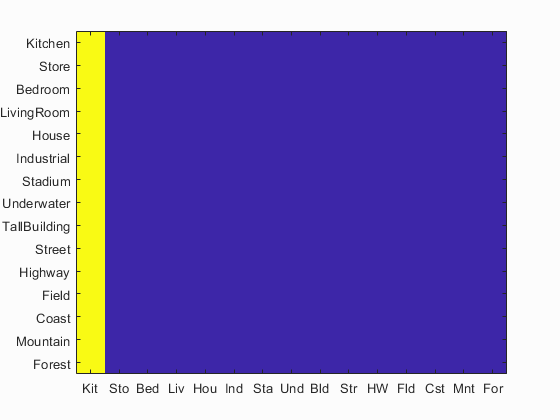
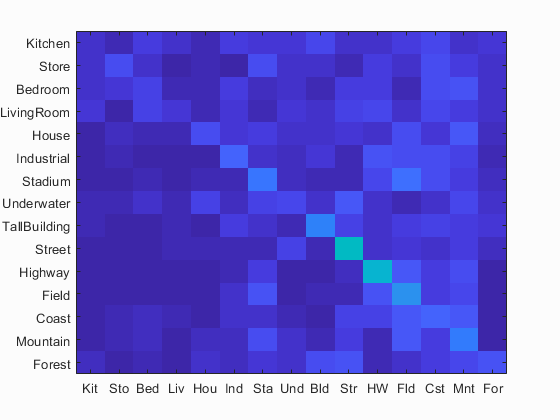
KNN WIP 2

diff --git a/Code/results_webpage/index.html b/Code/results_webpage/index.html
@@ -36,7 +36,7 @@ h1 {
 <img src="confusion_matrix.png">
 
 <br>
-Accuracy (mean of diagonal of confusion matrix) is 0.067
+Accuracy (mean of diagonal of confusion matrix) is 0.211
 <p>
 
 <table border=0 cellpadding=4 cellspacing=1>
@@ -50,183 +50,183 @@ Accuracy (mean of diagonal of confusion matrix) is 0.067
 </tr>
 <tr>
 <td>Kitchen</td>
-<td>1.000</td>
-<td bgcolor=LightBlue><img src="thumbnails/Kitchen_sun_abubjfcvxrqjnbav.jpg" width=75 height=75></td>
-<td bgcolor=LightBlue><img src="thumbnails/Kitchen_sun_acnxqvumxuhphsox.jpg" width=101 height=75></td>
-<td bgcolor=LightGreen><img src="thumbnails/Kitchen_sun_aaatkmnywzopvrpq.jpg" width=100 height=75></td>
-<td bgcolor=LightGreen><img src="thumbnails/Kitchen_sun_aaytdlcupysxijma.jpg" width=114 height=75></td>
-<td bgcolor=LightCoral><img src="thumbnails/Highway_sun_acavuimzdujsxhgo.jpg" width=101 height=75><br><small>Highway</small></td>
-<td bgcolor=LightCoral><img src="thumbnails/Highway_sun_adwjtmkipixhmlxq.jpg" width=101 height=75><br><small>Highway</small></td>
-<td bgcolor=#FFBB55></td>
-<td bgcolor=#FFBB55></td>
+<td>0.060</td>
+<td bgcolor=LightBlue><img src="thumbnails/Kitchen_sun_abxcbboqmegyjmav.jpg" width=75 height=75></td>
+<td bgcolor=LightBlue><img src="thumbnails/Kitchen_sun_aczownhxhsefytxm.jpg" width=101 height=75></td>
+<td bgcolor=LightGreen><img src="thumbnails/Kitchen_sun_aaustmdcrmpnsotk.jpg" width=101 height=75></td>
+<td bgcolor=LightGreen><img src="thumbnails/Kitchen_sun_abixkuxvvdkbvaio.jpg" width=75 height=75></td>
+<td bgcolor=LightCoral><img src="thumbnails/Store_sun_aqfdlqzwlyuyvior.jpg" width=111 height=75><br><small>Store</small></td>
+<td bgcolor=LightCoral><img src="thumbnails/Street_sun_aqkxuykoiwjqfcof.jpg" width=75 height=75><br><small>Street</small></td>
+<td bgcolor=#FFBB55><img src="thumbnails/Kitchen_sun_aadbddgrdsjugojn.jpg" width=112 height=75><br><small>Field</small></td>
+<td bgcolor=#FFBB55><img src="thumbnails/Kitchen_sun_abksexnhiqaynrtd.jpg" width=134 height=75><br><small>Highway</small></td>
 </tr>
 <tr>
 <td>Store</td>
-<td>0.000</td>
+<td>0.140</td>
+<td bgcolor=LightBlue><img src="thumbnails/Store_sun_abosiuiqphdekaqb.jpg" width=100 height=75></td>
 <td bgcolor=LightBlue><img src="thumbnails/Store_sun_afkjwiparjsetthc.jpg" width=101 height=75></td>
-<td bgcolor=LightBlue><img src="thumbnails/Store_sun_affhfccupvmwdrki.jpg" width=75 height=75></td>
-<td bgcolor=LightGreen></td>
-<td bgcolor=LightGreen></td>
-<td bgcolor=LightCoral></td>
-<td bgcolor=LightCoral></td>
-<td bgcolor=#FFBB55><img src="thumbnails/Store_sun_ajwuqobqdoekvnxe.jpg" width=112 height=75><br><small>Kitchen</small></td>
-<td bgcolor=#FFBB55><img src="thumbnails/Store_sun_aqfdlqzwlyuyvior.jpg" width=111 height=75><br><small>Kitchen</small></td>
+<td bgcolor=LightGreen><img src="thumbnails/Store_sun_apvrntrlsgmseeqq.jpg" width=96 height=75></td>
+<td bgcolor=LightGreen><img src="thumbnails/Store_sun_akadcztiwgphebkp.jpg" width=101 height=75></td>
+<td bgcolor=LightCoral><img src="thumbnails/Bedroom_sun_abllxrmlmfgdbepz.jpg" width=101 height=75><br><small>Bedroom</small></td>
+<td bgcolor=LightCoral><img src="thumbnails/House_sun_arolpfhixulbpres.jpg" width=75 height=75><br><small>House</small></td>
+<td bgcolor=#FFBB55><img src="thumbnails/Store_sun_anlindzcfzpglgxb.jpg" width=75 height=75><br><small>Coast</small></td>
+<td bgcolor=#FFBB55><img src="thumbnails/Store_sun_amoprubauqidnrhk.jpg" width=75 height=75><br><small>Forest</small></td>
 </tr>
 <tr>
 <td>Bedroom</td>
-<td>0.000</td>
-<td bgcolor=LightBlue><img src="thumbnails/Bedroom_sun_aayujdkohscvnnoc.jpg" width=75 height=75></td>
-<td bgcolor=LightBlue><img src="thumbnails/Bedroom_sun_aaytunsiifsmpgal.jpg" width=101 height=75></td>
-<td bgcolor=LightGreen></td>
-<td bgcolor=LightGreen></td>
-<td bgcolor=LightCoral></td>
-<td bgcolor=LightCoral></td>
-<td bgcolor=#FFBB55><img src="thumbnails/Bedroom_sun_ackiteoxogyezdtl.jpg" width=117 height=75><br><small>Kitchen</small></td>
-<td bgcolor=#FFBB55><img src="thumbnails/Bedroom_sun_abmaqfpmgiwpjyxj.jpg" width=100 height=75><br><small>Kitchen</small></td>
+<td>0.100</td>
+<td bgcolor=LightBlue><img src="thumbnails/Bedroom_sun_aajdpjsqhsoyhihy.jpg" width=100 height=75></td>
+<td bgcolor=LightBlue><img src="thumbnails/Bedroom_sun_aaxspwgpppcwlqht.jpg" width=113 height=75></td>
+<td bgcolor=LightGreen><img src="thumbnails/Bedroom_sun_acqgcgvyzdhyavxz.jpg" width=100 height=75></td>
+<td bgcolor=LightGreen><img src="thumbnails/Bedroom_sun_acotcrrbzdivlzvg.jpg" width=101 height=75></td>
+<td bgcolor=LightCoral><img src="thumbnails/Coast_sun_adknowhdoxjlngus.jpg" width=75 height=75><br><small>Coast</small></td>
+<td bgcolor=LightCoral><img src="thumbnails/Kitchen_sun_abntrinbqbsqoowj.jpg" width=101 height=75><br><small>Kitchen</small></td>
+<td bgcolor=#FFBB55><img src="thumbnails/Bedroom_sun_abllxrmlmfgdbepz.jpg" width=101 height=75><br><small>Store</small></td>
+<td bgcolor=#FFBB55><img src="thumbnails/Bedroom_sun_acrblweratfwhjlk.jpg" width=101 height=75><br><small>House</small></td>
 </tr>
 <tr>
 <td>LivingRoom</td>
-<td>0.000</td>
-<td bgcolor=LightBlue><img src="thumbnails/LivingRoom_sun_aagveymsoisqqxlv.jpg" width=75 height=75></td>
-<td bgcolor=LightBlue><img src="thumbnails/LivingRoom_sun_aajloyfvasfrnhbd.jpg" width=75 height=75></td>
-<td bgcolor=LightGreen></td>
-<td bgcolor=LightGreen></td>
-<td bgcolor=LightCoral></td>
-<td bgcolor=LightCoral></td>
-<td bgcolor=#FFBB55><img src="thumbnails/LivingRoom_sun_acqmgfnwzfqgrsii.jpg" width=113 height=75><br><small>Kitchen</small></td>
-<td bgcolor=#FFBB55><img src="thumbnails/LivingRoom_sun_acejfwtqpleymxpj.jpg" width=100 height=75><br><small>Kitchen</small></td>
+<td>0.070</td>
+<td bgcolor=LightBlue><img src="thumbnails/LivingRoom_sun_abdlgducflmlvokk.jpg" width=113 height=75></td>
+<td bgcolor=LightBlue><img src="thumbnails/LivingRoom_sun_aajspcoepticvplv.jpg" width=103 height=75></td>
+<td bgcolor=LightGreen><img src="thumbnails/LivingRoom_sun_adcqtvvdathcyeug.jpg" width=75 height=75></td>
+<td bgcolor=LightGreen><img src="thumbnails/LivingRoom_sun_abwebmkawvehjgcr.jpg" width=75 height=75></td>
+<td bgcolor=LightCoral><img src="thumbnails/Underwater_sun_aayljfaklgkflplo.jpg" width=59 height=75><br><small>Underwater</small></td>
+<td bgcolor=LightCoral><img src="thumbnails/House_sun_balobrqpjrvarzyb.jpg" width=73 height=75><br><small>House</small></td>
+<td bgcolor=#FFBB55><img src="thumbnails/LivingRoom_sun_acrjbaqsglaoxven.jpg" width=110 height=75><br><small>Street</small></td>
+<td bgcolor=#FFBB55><img src="thumbnails/LivingRoom_sun_abugfszubwstxjbk.jpg" width=116 height=75><br><small>Highway</small></td>
 </tr>
 <tr>
 <td>House</td>
-<td>0.000</td>
-<td bgcolor=LightBlue><img src="thumbnails/House_sun_agcqwarvgfltmibn.jpg" width=75 height=75></td>
-<td bgcolor=LightBlue><img src="thumbnails/House_sun_ajqgbrrgkwrppqss.jpg" width=75 height=75></td>
-<td bgcolor=LightGreen></td>
-<td bgcolor=LightGreen></td>
-<td bgcolor=LightCoral></td>
-<td bgcolor=LightCoral></td>
-<td bgcolor=#FFBB55><img src="thumbnails/House_sun_atzxsbbmhagmxuiw.jpg" width=105 height=75><br><small>Kitchen</small></td>
-<td bgcolor=#FFBB55><img src="thumbnails/House_sun_aqgdoxymfuejsnfh.jpg" width=101 height=75><br><small>Kitchen</small></td>
+<td>0.130</td>
+<td bgcolor=LightBlue><img src="thumbnails/House_sun_adrdwxbsbtyxlubj.jpg" width=101 height=75></td>
+<td bgcolor=LightBlue><img src="thumbnails/House_sun_akkktcsquettazia.jpg" width=75 height=75></td>
+<td bgcolor=LightGreen><img src="thumbnails/House_sun_asrvshkmlswptzfa.jpg" width=113 height=75></td>
+<td bgcolor=LightGreen><img src="thumbnails/House_sun_autaxvdodpikcoje.jpg" width=75 height=75></td>
+<td bgcolor=LightCoral><img src="thumbnails/Underwater_sun_afbdggeebvimkvwj.jpg" width=113 height=75><br><small>Underwater</small></td>
+<td bgcolor=LightCoral><img src="thumbnails/Underwater_sun_agataqxpdumhcvkx.jpg" width=75 height=75><br><small>Underwater</small></td>
+<td bgcolor=#FFBB55><img src="thumbnails/House_sun_awddcjqyytgbwhad.jpg" width=91 height=75><br><small>TallBuilding</small></td>
+<td bgcolor=#FFBB55><img src="thumbnails/House_sun_auzptenhhzbfkklk.jpg" width=101 height=75><br><small>Mountain</small></td>
 </tr>
 <tr>
 <td>Industrial</td>
-<td>0.000</td>
-<td bgcolor=LightBlue><img src="thumbnails/Industrial_sun_anmhlgdnehbgfagi.jpg" width=107 height=75></td>
-<td bgcolor=LightBlue><img src="thumbnails/Industrial_sun_azdryefopyyfbhrj.jpg" width=75 height=75></td>
-<td bgcolor=LightGreen></td>
-<td bgcolor=LightGreen></td>
-<td bgcolor=LightCoral></td>
-<td bgcolor=LightCoral></td>
-<td bgcolor=#FFBB55><img src="thumbnails/Industrial_sun_afrdqvcfapernswr.jpg" width=113 height=75><br><small>Kitchen</small></td>
-<td bgcolor=#FFBB55><img src="thumbnails/Industrial_sun_aeecsyqgdlyfytqh.jpg" width=75 height=75><br><small>Kitchen</small></td>
+<td>0.200</td>
+<td bgcolor=LightBlue><img src="thumbnails/Industrial_sun_axgsjhalfdldqztf.jpg" width=75 height=75></td>
+<td bgcolor=LightBlue><img src="thumbnails/Industrial_sun_bmghcyfkgfeboqdw.jpg" width=101 height=75></td>
+<td bgcolor=LightGreen><img src="thumbnails/Industrial_sun_aqownphqjogaatup.jpg" width=75 height=75></td>
+<td bgcolor=LightGreen><img src="thumbnails/Industrial_sun_atftsrjnmaxwjmjz.jpg" width=88 height=75></td>
+<td bgcolor=LightCoral><img src="thumbnails/House_sun_azivptjcqwhfiimu.jpg" width=75 height=75><br><small>House</small></td>
+<td bgcolor=LightCoral><img src="thumbnails/Field_sun_amdrbspmpwkzsjqy.jpg" width=75 height=75><br><small>Field</small></td>
+<td bgcolor=#FFBB55><img src="thumbnails/Industrial_sun_abshbzorxflngbon.jpg" width=75 height=75><br><small>Highway</small></td>
+<td bgcolor=#FFBB55><img src="thumbnails/Industrial_sun_acyzdpwpaqrrkcie.jpg" width=113 height=75><br><small>Highway</small></td>
 </tr>
 <tr>
 <td>Stadium</td>
-<td>0.000</td>
-<td bgcolor=LightBlue><img src="thumbnails/Stadium_sun_bgkywfadvvguhqym.jpg" width=113 height=75></td>
-<td bgcolor=LightBlue><img src="thumbnails/Stadium_sun_bpvmkbyglkraoxhh.jpg" width=101 height=75></td>
-<td bgcolor=LightGreen></td>
-<td bgcolor=LightGreen></td>
-<td bgcolor=LightCoral></td>
-<td bgcolor=LightCoral></td>
-<td bgcolor=#FFBB55><img src="thumbnails/Stadium_sun_agdjpdnyltdqplcw.jpg" width=94 height=75><br><small>Kitchen</small></td>
-<td bgcolor=#FFBB55><img src="thumbnails/Stadium_sun_aqwejzeafuvgelym.jpg" width=101 height=75><br><small>Kitchen</small></td>
+<td>0.240</td>
+<td bgcolor=LightBlue><img src="thumbnails/Stadium_sun_bdaetftiommjxvxo.jpg" width=101 height=75></td>
+<td bgcolor=LightBlue><img src="thumbnails/Stadium_sun_bmxxiyzsejhvbonq.jpg" width=101 height=75></td>
+<td bgcolor=LightGreen><img src="thumbnails/Stadium_sun_aliwekqtpmatjrfk.jpg" width=101 height=75></td>
+<td bgcolor=LightGreen><img src="thumbnails/Stadium_sun_alkrejfunzeugccg.jpg" width=100 height=75></td>
+<td bgcolor=LightCoral><img src="thumbnails/Underwater_sun_aiwfpazggspqlcyx.jpg" width=118 height=75><br><small>Underwater</small></td>
+<td bgcolor=LightCoral><img src="thumbnails/Industrial_sun_apskpqgprjxomcqw.jpg" width=75 height=75><br><small>Industrial</small></td>
+<td bgcolor=#FFBB55><img src="thumbnails/Stadium_sun_aqwejzeafuvgelym.jpg" width=101 height=75><br><small>Bedroom</small></td>
+<td bgcolor=#FFBB55><img src="thumbnails/Stadium_sun_anyxowtuxrqnyiea.jpg" width=109 height=75><br><small>LivingRoom</small></td>
 </tr>
 <tr>
 <td>Underwater</td>
-<td>0.000</td>
-<td bgcolor=LightBlue><img src="thumbnails/Underwater_sun_aswawzdpxawhslfa.jpg" width=109 height=75></td>
-<td bgcolor=LightBlue><img src="thumbnails/Underwater_sun_aqwzbvbnuocbfebw.jpg" width=115 height=75></td>
-<td bgcolor=LightGreen></td>
-<td bgcolor=LightGreen></td>
-<td bgcolor=LightCoral></td>
-<td bgcolor=LightCoral></td>
-<td bgcolor=#FFBB55><img src="thumbnails/Underwater_sun_aklqirfgzykgoikd.jpg" width=100 height=75><br><small>Kitchen</small></td>
-<td bgcolor=#FFBB55><img src="thumbnails/Underwater_sun_aeoukrxgtybudeiw.jpg" width=101 height=75><br><small>Kitchen</small></td>
+<td>0.120</td>
+<td bgcolor=LightBlue><img src="thumbnails/Underwater_sun_avacuzzxrobqkcss.jpg" width=75 height=75></td>
+<td bgcolor=LightBlue><img src="thumbnails/Underwater_sun_arohrhrsyuyfraah.jpg" width=101 height=75></td>
+<td bgcolor=LightGreen><img src="thumbnails/Underwater_sun_addrjgltpljctvkb.jpg" width=101 height=75></td>
+<td bgcolor=LightGreen><img src="thumbnails/Underwater_sun_abxdibkbtlcauloa.jpg" width=100 height=75></td>
+<td bgcolor=LightCoral><img src="thumbnails/Store_sun_agyvqvazefwcehot.jpg" width=53 height=75><br><small>Store</small></td>
+<td bgcolor=LightCoral><img src="thumbnails/Kitchen_sun_aakdxfbroywdvzac.jpg" width=101 height=75><br><small>Kitchen</small></td>
+<td bgcolor=#FFBB55><img src="thumbnails/Underwater_sun_acbsnpvliwldelek.jpg" width=101 height=75><br><small>Forest</small></td>
+<td bgcolor=#FFBB55><img src="thumbnails/Underwater_sun_adpyczkwuljaajku.jpg" width=111 height=75><br><small>House</small></td>
 </tr>
 <tr>
 <td>TallBuilding</td>
-<td>0.000</td>
-<td bgcolor=LightBlue><img src="thumbnails/TallBuilding_sun_alcsbdrxtrtvqwon.jpg" width=75 height=75></td>
-<td bgcolor=LightBlue><img src="thumbnails/TallBuilding_sun_aiuxdrvlcgifjzex.jpg" width=75 height=75></td>
-<td bgcolor=LightGreen></td>
-<td bgcolor=LightGreen></td>
-<td bgcolor=LightCoral></td>
-<td bgcolor=LightCoral></td>
-<td bgcolor=#FFBB55><img src="thumbnails/TallBuilding_sun_aezjyilnftokytxw.jpg" width=75 height=75><br><small>Kitchen</small></td>
-<td bgcolor=#FFBB55><img src="thumbnails/TallBuilding_sun_aincgwwfotaudtno.jpg" width=75 height=75><br><small>Kitchen</small></td>
+<td>0.270</td>
+<td bgcolor=LightBlue><img src="thumbnails/TallBuilding_sun_amutttaaecmtofxe.jpg" width=75 height=75></td>
+<td bgcolor=LightBlue><img src="thumbnails/TallBuilding_sun_aoeicdziurntilob.jpg" width=75 height=75></td>
+<td bgcolor=LightGreen><img src="thumbnails/TallBuilding_sun_adopyucxrwkoquei.jpg" width=75 height=75></td>
+<td bgcolor=LightGreen><img src="thumbnails/TallBuilding_sun_aahubhyvtfelhoyv.jpg" width=75 height=75></td>
+<td bgcolor=LightCoral><img src="thumbnails/Forest_sun_avesoizwcqbojcvm.jpg" width=75 height=75><br><small>Forest</small></td>
+<td bgcolor=LightCoral><img src="thumbnails/Kitchen_sun_aaedkdzalmgthmau.jpg" width=75 height=75><br><small>Kitchen</small></td>
+<td bgcolor=#FFBB55><img src="thumbnails/TallBuilding_sun_afmhwpwfcpfdoygy.jpg" width=57 height=75><br><small>Mountain</small></td>
+<td bgcolor=#FFBB55><img src="thumbnails/TallBuilding_sun_agqelgngebcticrt.jpg" width=75 height=75><br><small>Street</small></td>
 </tr>
 <tr>
 <td>Street</td>
-<td>0.000</td>
-<td bgcolor=LightBlue><img src="thumbnails/Street_sun_adnjjzohjhbohlwq.jpg" width=75 height=75></td>
-<td bgcolor=LightBlue><img src="thumbnails/Street_sun_aczyvojuirnmntds.jpg" width=75 height=75></td>
-<td bgcolor=LightGreen></td>
-<td bgcolor=LightGreen></td>
-<td bgcolor=LightCoral></td>
-<td bgcolor=LightCoral></td>
-<td bgcolor=#FFBB55><img src="thumbnails/Street_sun_axxcgvvfkbncorzw.jpg" width=75 height=75><br><small>Kitchen</small></td>
-<td bgcolor=#FFBB55><img src="thumbnails/Street_sun_arubnkxrpngvgatb.jpg" width=75 height=75><br><small>Kitchen</small></td>
+<td>0.470</td>
+<td bgcolor=LightBlue><img src="thumbnails/Street_sun_aayameemlzdjkinb.jpg" width=75 height=75></td>
+<td bgcolor=LightBlue><img src="thumbnails/Street_sun_acasxyfcxuorvvpp.jpg" width=75 height=75></td>
+<td bgcolor=LightGreen><img src="thumbnails/Street_sun_avurwypfycbgrate.jpg" width=75 height=75></td>
+<td bgcolor=LightGreen><img src="thumbnails/Street_sun_apknsyjxpqngmrda.jpg" width=75 height=75></td>
+<td bgcolor=LightCoral><img src="thumbnails/TallBuilding_sun_aaxabpcjcwtyqakd.jpg" width=75 height=75><br><small>TallBuilding</small></td>
+<td bgcolor=LightCoral><img src="thumbnails/Forest_sun_areqjhlzczhrspvo.jpg" width=75 height=75><br><small>Forest</small></td>
+<td bgcolor=#FFBB55><img src="thumbnails/Street_sun_aqijbglnhctpdxqj.jpg" width=75 height=75><br><small>Mountain</small></td>
+<td bgcolor=#FFBB55><img src="thumbnails/Street_sun_avvrvnoksopijmkz.jpg" width=75 height=75><br><small>Mountain</small></td>
 </tr>
 <tr>
 <td>Highway</td>
-<td>0.000</td>
-<td bgcolor=LightBlue><img src="thumbnails/Highway_sun_akihkricraebyttv.jpg" width=101 height=75></td>
-<td bgcolor=LightBlue><img src="thumbnails/Highway_sun_ahkywweriavdjvio.jpg" width=75 height=75></td>
-<td bgcolor=LightGreen></td>
-<td bgcolor=LightGreen></td>
-<td bgcolor=LightCoral></td>
-<td bgcolor=LightCoral></td>
-<td bgcolor=#FFBB55><img src="thumbnails/Highway_sun_aenpdrmxtsssrktn.jpg" width=111 height=75><br><small>Kitchen</small></td>
-<td bgcolor=#FFBB55><img src="thumbnails/Highway_sun_aenaseheusdipzby.jpg" width=75 height=75><br><small>Kitchen</small></td>
+<td>0.440</td>
+<td bgcolor=LightBlue><img src="thumbnails/Highway_sun_akpfdceuvmthmmgq.jpg" width=75 height=75></td>
+<td bgcolor=LightBlue><img src="thumbnails/Highway_sun_ajioazwnquwdjbfv.jpg" width=75 height=75></td>
+<td bgcolor=LightGreen><img src="thumbnails/Highway_sun_afpppbrzyyxyppxy.jpg" width=75 height=75></td>
+<td bgcolor=LightGreen><img src="thumbnails/Highway_sun_adjcxhknskrovwwv.jpg" width=75 height=75></td>
+<td bgcolor=LightCoral><img src="thumbnails/Bedroom_sun_acaowsylrnrdzonc.jpg" width=113 height=75><br><small>Bedroom</small></td>
+<td bgcolor=LightCoral><img src="thumbnails/Bedroom_sun_accyfgwyjuhntllw.jpg" width=108 height=75><br><small>Bedroom</small></td>
+<td bgcolor=#FFBB55><img src="thumbnails/Highway_sun_advstbacygihnsur.jpg" width=113 height=75><br><small>Mountain</small></td>
+<td bgcolor=#FFBB55><img src="thumbnails/Highway_sun_acgdunmrvdiderku.jpg" width=146 height=75><br><small>Coast</small></td>
 </tr>
 <tr>
 <td>Field</td>
-<td>0.000</td>
-<td bgcolor=LightBlue><img src="thumbnails/Field_sun_abcsghhmaicbyfah.jpg" width=75 height=75></td>
-<td bgcolor=LightBlue><img src="thumbnails/Field_sun_aeesprkjfzvoldqq.jpg" width=75 height=75></td>
-<td bgcolor=LightGreen></td>
-<td bgcolor=LightGreen></td>
-<td bgcolor=LightCoral></td>
-<td bgcolor=LightCoral></td>
-<td bgcolor=#FFBB55><img src="thumbnails/Field_sun_agzsjiqyoyxibzxi.jpg" width=75 height=75><br><small>Kitchen</small></td>
-<td bgcolor=#FFBB55><img src="thumbnails/Field_sun_amdrbspmpwkzsjqy.jpg" width=75 height=75><br><small>Kitchen</small></td>
+<td>0.320</td>
+<td bgcolor=LightBlue><img src="thumbnails/Field_sun_aesahomxjbgsoeae.jpg" width=115 height=75></td>
+<td bgcolor=LightBlue><img src="thumbnails/Field_sun_addtdkycxbqlpfqa.jpg" width=101 height=75></td>
+<td bgcolor=LightGreen><img src="thumbnails/Field_sun_aiqljudoviqlwaes.jpg" width=75 height=75></td>
+<td bgcolor=LightGreen><img src="thumbnails/Field_sun_akabsvsyzpiqntcp.jpg" width=75 height=75></td>
+<td bgcolor=LightCoral><img src="thumbnails/Mountain_sun_aqohatrqqxxdtjsf.jpg" width=75 height=75><br><small>Mountain</small></td>
+<td bgcolor=LightCoral><img src="thumbnails/Mountain_sun_adllnkiukblykrvr.jpg" width=75 height=75><br><small>Mountain</small></td>
+<td bgcolor=#FFBB55><img src="thumbnails/Field_sun_agjwmwyktbyoiumh.jpg" width=57 height=75><br><small>Coast</small></td>
+<td bgcolor=#FFBB55><img src="thumbnails/Field_sun_aiemuqojwgxywzmf.jpg" width=75 height=75><br><small>Highway</small></td>
 </tr>
 <tr>
 <td>Coast</td>
-<td>0.000</td>
-<td bgcolor=LightBlue><img src="thumbnails/Coast_sun_ahqzuclnkfzntdxs.jpg" width=75 height=75></td>
-<td bgcolor=LightBlue><img src="thumbnails/Coast_sun_akdlbyxvhfzqkmec.jpg" width=75 height=75></td>
-<td bgcolor=LightGreen></td>
-<td bgcolor=LightGreen></td>
-<td bgcolor=LightCoral></td>
-<td bgcolor=LightCoral></td>
-<td bgcolor=#FFBB55><img src="thumbnails/Coast_sun_abacczqzmassivlz.jpg" width=75 height=75><br><small>Kitchen</small></td>
-<td bgcolor=#FFBB55><img src="thumbnails/Coast_sun_afayygrnoetwotbj.jpg" width=113 height=75><br><small>Kitchen</small></td>
+<td>0.200</td>
+<td bgcolor=LightBlue><img src="thumbnails/Coast_sun_ahzxmryraexbachm.jpg" width=50 height=75></td>
+<td bgcolor=LightBlue><img src="thumbnails/Coast_sun_aiwgzdpwfzdkwiaw.jpg" width=101 height=75></td>
+<td bgcolor=LightGreen><img src="thumbnails/Coast_sun_aaarffxrewgissla.jpg" width=75 height=75></td>
+<td bgcolor=LightGreen><img src="thumbnails/Coast_sun_aevdotmpzjqmardj.jpg" width=75 height=75></td>
+<td bgcolor=LightCoral><img src="thumbnails/Industrial_sun_abqbyyxvedmxtutv.jpg" width=75 height=75><br><small>Industrial</small></td>
+<td bgcolor=LightCoral><img src="thumbnails/Kitchen_sun_aavvaxqqsofbaqrz.jpg" width=101 height=75><br><small>Kitchen</small></td>
+<td bgcolor=#FFBB55><img src="thumbnails/Coast_sun_abotowxcizrxzzms.jpg" width=75 height=75><br><small>Street</small></td>
+<td bgcolor=#FFBB55><img src="thumbnails/Coast_sun_aaauorhfyjbbgqkx.jpg" width=113 height=75><br><small>Mountain</small></td>
 </tr>
 <tr>
 <td>Mountain</td>
-<td>0.000</td>
-<td bgcolor=LightBlue><img src="thumbnails/Mountain_sun_arzjnkriqwsbxqvg.jpg" width=57 height=75></td>
-<td bgcolor=LightBlue><img src="thumbnails/Mountain_sun_avwmsuhqcprieulh.jpg" width=114 height=75></td>
-<td bgcolor=LightGreen></td>
-<td bgcolor=LightGreen></td>
-<td bgcolor=LightCoral></td>
-<td bgcolor=LightCoral></td>
-<td bgcolor=#FFBB55><img src="thumbnails/Mountain_sun_aadxlwffxgghnrkq.jpg" width=75 height=75><br><small>Kitchen</small></td>
-<td bgcolor=#FFBB55><img src="thumbnails/Mountain_sun_apniscciiblhncuw.jpg" width=75 height=75><br><small>Kitchen</small></td>
+<td>0.260</td>
+<td bgcolor=LightBlue><img src="thumbnails/Mountain_sun_azbkhlxvemsutndd.jpg" width=75 height=75></td>
+<td bgcolor=LightBlue><img src="thumbnails/Mountain_sun_bcfplfqhoscnjczi.jpg" width=101 height=75></td>
+<td bgcolor=LightGreen><img src="thumbnails/Mountain_sun_aoioimqcartsexin.jpg" width=75 height=75></td>
+<td bgcolor=LightGreen><img src="thumbnails/Mountain_sun_anzrxoxejandordg.jpg" width=75 height=75></td>
+<td bgcolor=LightCoral><img src="thumbnails/Bedroom_sun_acmxkebpuogcvrai.jpg" width=57 height=75><br><small>Bedroom</small></td>
+<td bgcolor=LightCoral><img src="thumbnails/Coast_sun_aaauorhfyjbbgqkx.jpg" width=113 height=75><br><small>Coast</small></td>
+<td bgcolor=#FFBB55><img src="thumbnails/Mountain_sun_ajxtbqkbtatsgfew.jpg" width=75 height=75><br><small>Street</small></td>
+<td bgcolor=#FFBB55><img src="thumbnails/Mountain_sun_adllnkiukblykrvr.jpg" width=75 height=75><br><small>Field</small></td>
 </tr>
 <tr>
 <td>Forest</td>
-<td>0.000</td>
-<td bgcolor=LightBlue><img src="thumbnails/Forest_sun_afnafgstcduncdkn.jpg" width=75 height=75></td>
-<td bgcolor=LightBlue><img src="thumbnails/Forest_sun_acldfctnbrisxzjh.jpg" width=57 height=75></td>
-<td bgcolor=LightGreen></td>
-<td bgcolor=LightGreen></td>
-<td bgcolor=LightCoral></td>
-<td bgcolor=LightCoral></td>
-<td bgcolor=#FFBB55><img src="thumbnails/Forest_sun_amgwvbpfyuoyzipf.jpg" width=75 height=75><br><small>Kitchen</small></td>
-<td bgcolor=#FFBB55><img src="thumbnails/Forest_sun_aofddvhkjfdagokt.jpg" width=75 height=75><br><small>Kitchen</small></td>
+<td>0.150</td>
+<td bgcolor=LightBlue><img src="thumbnails/Forest_sun_aenzvpidfjbbeifs.jpg" width=75 height=75></td>
+<td bgcolor=LightBlue><img src="thumbnails/Forest_sun_acwgepilxfobgymk.jpg" width=57 height=75></td>
+<td bgcolor=LightGreen><img src="thumbnails/Forest_sun_avmakuxqiwoptewa.jpg" width=50 height=75></td>
+<td bgcolor=LightGreen><img src="thumbnails/Forest_sun_anqplteihhyjtglu.jpg" width=75 height=75></td>
+<td bgcolor=LightCoral><img src="thumbnails/TallBuilding_sun_afzohwwzfnecpbpo.jpg" width=75 height=75><br><small>TallBuilding</small></td>
+<td bgcolor=LightCoral><img src="thumbnails/Underwater_sun_abiuylayhdgbchzc.jpg" width=101 height=75><br><small>Underwater</small></td>
+<td bgcolor=#FFBB55><img src="thumbnails/Forest_sun_almbnfrklwqeecfz.jpg" width=75 height=75><br><small>Mountain</small></td>
+<td bgcolor=#FFBB55><img src="thumbnails/Forest_sun_almbxcurjahdxery.jpg" width=75 height=75><br><small>Street</small></td>
 </tr>
 <tr>
 <th>Category name</th>

diff --git a/Code/knn_classifier.m b/Code/knn_classifier.m
@@ -3,23 +3,25 @@ function [ vec ] = knn_classifier(train_feats, train_labels, test_feats)
 vec = [];
 k = 0;
 nn = 10000000000; %nearest neighbor
+cum_sum = 0;
 
 [height,width] = size(test_feats);
-[heightTrain, widthTrain] = size(train_feats);
+[height_train,~] = size(train_feats);
 
 
-for i = 1:height %test image
-    for j = 1:heightTrain %train images
-        for k = 1:width
-            neigh = abs(test_feats(i, k)-train_feats(i, k)); %calculates difference
-            if neigh < nn %if lower nn is found, assign new nn
-               nn = neigh; 
-               lab = train_labels(j, 1);
-            end
+for h = 1:height %test image, go through each test image
+    for i = 1:height_train %train image, this goes through each train image
+        for j = 1:width
+            neigh = abs(test_feats(h, j)-train_feats(i, j)); %calculates difference 
+            cum_sum = cum_sum + neigh;
         end
-        vec = [vec,lab];
+        if cum_sum < nn %if lower nn is found, assign new nn
+            nn = cum_sum; 
+            lab = train_labels(i, 1);
+        end
+    vec = [vec;lab];
+    cum_sum = 0;
     end
-    
     nn = 10000000000;
 end
 
